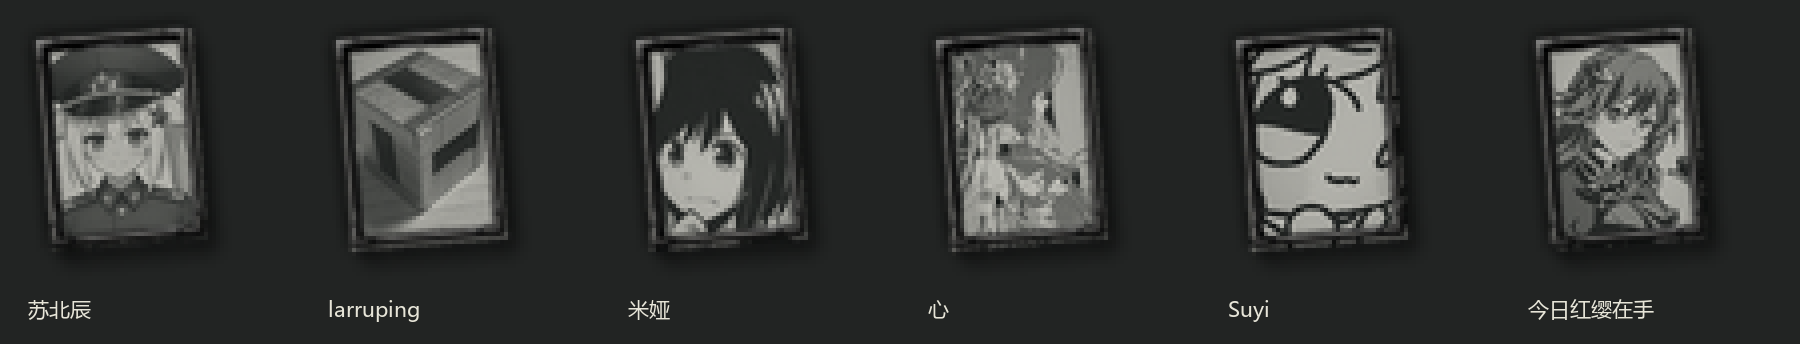
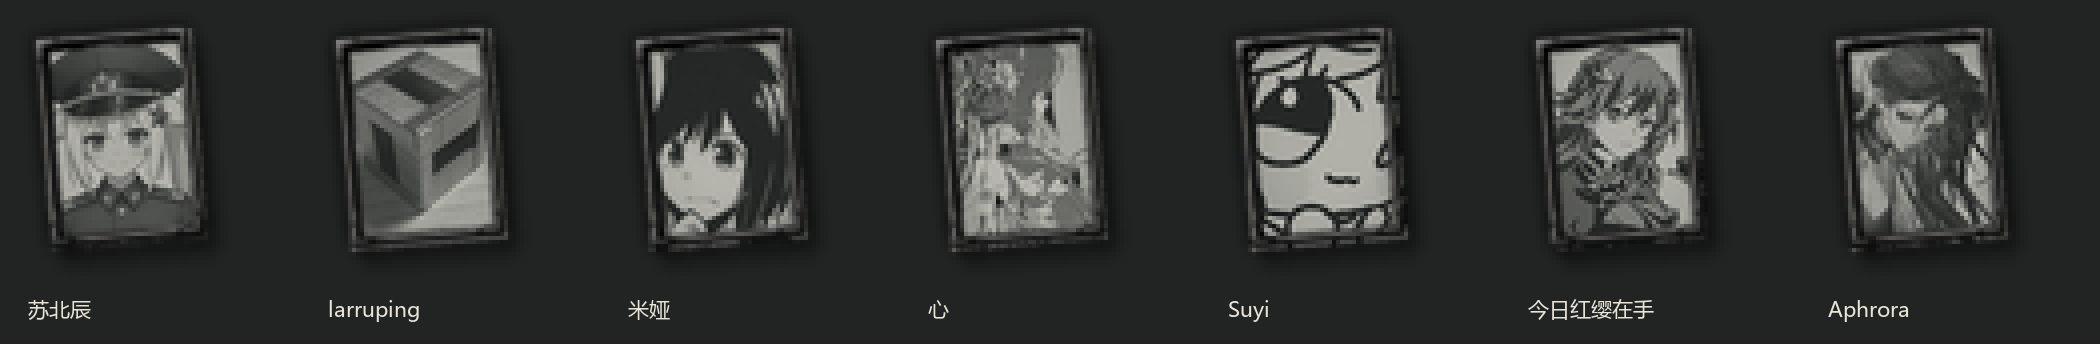
Add Aphrora as a Russian Easter egg advisor

diff --git a/tools/generate_easter_egg_advisors.py b/tools/generate_easter_egg_advisors.py
@@ -9,6 +9,12 @@ from generation_io import cli
 
 ROOT=Path(__file__).resolve().parents[1]
 ADVISORS={
+ 'aphrora':dict(
+     name='Aphrora', trait='金牌顾问', modifiers={},
+     trait_tooltip='群号1094481847，不会的进群问 Aphrora\n任命后吞并德意志帝国（若其仍存在）。',
+     desc=(
+         '“原来是这样啊，不知道的还以为在第一次世界大战时，德国皇帝威廉二世否决了最高统帅部的无限制潜艇战决议导致美国没有参与欧陆的战争，在法国巴黎爆发工团革命后协约国与同盟国签订停战协议，而被推翻的协约国各国政府分别流亡北非与加拿大，而法兰西公社与不列颠同盟成立了第三国际，同时由于社会革命党对列宁的刺杀与德国对俄国内战的干涉，导致乌克兰，白俄罗斯，波兰，波罗的海，立陶宛，芬兰，格鲁吉亚与阿塞拜疆独立并加入由德意志国领导的帝国公约，而在战后的20年，俄国白军头面人物萨文科夫制杖全俄大权，但在面临黑色星期一时的强行手段以及独裁专政引起了全俄的强烈不满，由玛利亚 斯皮里多诺娃领导的社革与布尔什维克以及其他社会主义民主党派组成的全俄劳联推翻了萨文科夫的统治恢复了俄罗斯社会主义共和国，而在随后的劳工大会中全俄劳联尤其是其中的左翼-布尔什维克集团赢得了选举，恢复了苏维埃制度，而已经加入全俄劳联的季诺维也夫打算用自己的全部影响力接管布尔什维克时，斯大林，斯维尔德洛夫，加米涅夫三人推翻了他的意图，俄共（布）在斯大林的领导下成立了苏维埃俄罗斯社会主义联邦共和国，并在第二次世界大战中战胜了帝国公约，成立了苏维埃社会主义共和国联盟呢。”'
+         '\n据他所说，这个名字是某种英文转写的阿芙乐尔，作为本模组一位忠实的玩家，他积极的为本模组的发展建言献策，却没有参与到制作之中，但这并不意味着他没有为本组做出贡献，至少上面这篇短文就很好地简短介绍了本模组的剧情走向。而在群中，他积极的帮助大家游玩这个模组，从dlc的补全到土改小游戏的帮助，都能提现他的热心，自己对kr世界观中共产主义事业的努力')),
  'hongying':dict(name='今日红缨在手',trait='远视极权自动化未来平权主义',
      modifiers={'consumer_goods_factor':-1,'political_power_factor':2,
                 'production_speed_buildings_factor':5},desc=(
@@ -54,6 +60,9 @@ def render_outputs():
     }
     for key,data in ADVISORS.items():
         ident=token(key);idea=ident+'_advisor';flag=ident+'_unlocked';trait=ident+'_trait'
+        trait_tooltip = data.get('trait_tooltip')
+        if trait_tooltip:
+            loc[trait+'_tt'] = trait_tooltip
         characters.append(block(ident,[
             'name = '+ident,
             'portraits = { civilian = { small = GFX_portrait_'+ident+'_small } }',
@@ -61,12 +70,24 @@ def render_outputs():
                 'slot = political_advisor','idea_token = '+idea,'desc = '+idea+'_desc',
                 'visible = { has_country_flag = '+flag+' }',
                 'available = { hidden_trigger = { has_country_flag = '+flag+' } not_already_hired_except_as = political_advisor }',
-                'traits = { '+trait+' }','cost = 0','can_be_fired = yes','ai_will_do = { base = 0 }']).strip()]))
+                'traits = { '+trait+' }',
+                *([
+                    'on_add = {',
+                    '\thidden_effect = {',
+                    '\t\tif = {',
+                    '\t\t\tlimit = { original_tag = RUS is_ai = no country_exists = GER }',
+                    '\t\t\tannex_country = { target = GER }',
+                    '\t\t}',
+                    '\t}',
+                    '}',
+                ] if key == 'aphrora' else []),
+                'cost = 0','can_be_fired = yes','ai_will_do = { base = 0 }']).strip()]))
         if key=='suyi':
             characters[-1]=characters[-1].replace('cost = 0',
                 'on_add = { hidden_effect = { RUS_egg_suyi_appoint = yes } }\n\ton_remove = { hidden_effect = { clr_country_flag = RUS_egg_suyi_active remove_dynamic_modifier = { modifier = RUS_egg_suyi_daily_pp } force_update_dynamic_modifier = yes } }\n\tcost = 0')
         traits.append(block(trait,['random = no','sprite = 1',
             *[str(k)+' = '+str(v) for k,v in data['modifiers'].items()],
+            *(['custom_modifier_tooltip = '+trait+'_tt'] if trait_tooltip else []),
             *(['custom_modifier_tooltip = RUS_egg_guaranteed_minesweeper_tt'] if key=='larruping' else []),
             *(['custom_modifier_tooltip = RUS_egg_guaranteed_doudizhu_tt'] if key=='larruping' else []),
             *(['custom_modifier_tooltip = RUS_egg_mia_trait_tt'] if key=='mia' else []),

diff --git a/tools/test_easter_egg_advisors.py b/tools/test_easter_egg_advisors.py
@@ -14,11 +14,18 @@ class Model(ScriptModel):
         super().__init__(copy.deepcopy(FX));self.ideas={'RUS_egg_larruping_advisor'} if hired else set()
         self.characters=set();self.recruits=0;self.events=[];self.states=[dict(energy_infrastructure=0,industrial_infrastructure=0,slots=0) for _ in range(eligible)]
         self.state=None;self.country=self.vars
+        self.tag = 'RUS'
+        self.ai = False
+        self.existing_countries = set()
+        self.annexations = []
     def check(self,nodes):
         if hasattr(nodes,'v'):nodes=nodes.v
         for n in nodes:
             if n.k=='has_idea':ok=n.v in self.ideas
             elif n.k=='has_character':ok=n.v in self.characters
+            elif n.k == 'original_tag':ok = n.v == self.tag
+            elif n.k == 'is_ai':ok = (n.v == 'yes') == self.ai
+            elif n.k == 'country_exists':ok = n.v in self.existing_countries
             elif n.k=='any_owned_state':ok=any(s['energy_infrastructure']<1 and s['industrial_infrastructure']<1 for s in self.states)
             elif n.k=='owner':
                 old=self.vars;self.vars=self.country;ok=self.check(n.v);self.vars=old
@@ -26,7 +33,7 @@ class Model(ScriptModel):
             if not ok:return False
         return True
     def run(self,nodes):
-        handled={'clamp_variable','recruit_character','country_event','while_loop_effect','random_owned_controlled_state',
+        handled={'clamp_variable','recruit_character','country_event','annex_country','while_loop_effect','random_owned_controlled_state',
                  'add_extra_state_shared_building_slots','add_building_construction',
                  'RUS_tesla_minesweeper_refresh_gui','RUS_tesla_refresh_power_grid_bonuses'}
         pending=[]
@@ -36,6 +43,10 @@ class Model(ScriptModel):
             if n.k=='clamp_variable':
                 key=n.value('var');self.vars[key]=max(self.number(n.value('min')),min(self.number(n.value('max')),self.number(key)))
             elif n.k=='recruit_character':self.characters.add(n.v);self.recruits+=1
+            elif n.k == 'annex_country':
+                target = n.value('target')
+                self.existing_countries.remove(target)
+                self.annexations.append(target)
             elif n.k=='country_event':self.events.append((n.value('id'),int(n.value('days'))))
             elif n.k=='while_loop_effect':
                 count=0
@@ -127,6 +138,23 @@ class Tests(unittest.TestCase):
             portrait=chars.one(token(key)).one('portraits').one('civilian').value('small')
             im=Image.open(ROOT/sprites[portrait]);self.assertEqual(im.size,(65,67));self.assertEqual(im.mode,'RGBA')
             self.assertEqual(im.getchannel('A').getextrema(),(0,255))
+
+    def test_aphrora_annexes_germany_on_appointment_only(self):
+        ident = token('aphrora')
+        characters = load(ROOT/'common/characters/RUS_easter_egg_advisors.txt')[0]
+        appointment = characters.one(ident).one('advisor').one('on_add')
+        for tag, ai, germany_exists in (('RUS', False, True), ('RUS', False, False),
+                                        ('RUS', True, True), ('FRA', False, True)):
+            with self.subTest(tag=tag, ai=ai, germany_exists=germany_exists):
+                model = Model()
+                model.tag, model.ai = tag, ai
+                model.existing_countries = {'GER'} if germany_exists else set()
+                model.call(ident+'_unlock')
+                self.assertEqual(model.annexations, [])
+                model.run(appointment.v)
+                model.run(appointment.v)
+                expected = ['GER'] if tag == 'RUS' and not ai and germany_exists else []
+                self.assertEqual(model.annexations, expected)
 
     def test_hired_loss_is_victory_once_with_original_streak_reward(self):
         for result in ('finish_victory','finish_defeat'):

diff --git a/tools/art_sources/easter_egg_advisors_20261104/build_portraits.py b/tools/art_sources/easter_egg_advisors_20261104/build_portraits.py
@@ -11,7 +11,8 @@ ROWS=[('su_beichen','su_beichen_source.jpg','35,0,410,455','苏北辰'),
       ('mia','mia_source.jpg','215,0,1040,1080','米娅'),
       ('xin','xin_source.png','170,25,500,490','心'),
       ('suyi','suyi_source.png','0,0,606,606','Suyi'),
-      ('hongying','hongying_source.png','0,0,602,601','今日红缨在手')]
+      ('hongying','hongying_source.png','0,0,602,601','今日红缨在手'),
+      ('aphrora','aphrora_source.png','132,20,540,564','Aphrora')]
 
 def main():
     if sys.argv[1:]!=['--write']:raise SystemExit('Explicit image rebuild requires --write')

diff --git a/维护索引.md b/维护索引.md
@@ -83,7 +83,7 @@
 | 系统 | 入口与维护源 | 主要状态与生命周期 |
 | --- | --- | --- |
 | 特斯拉与扫雷 | `RUS_tesla_*`；`generate_tesla_minesweeper.py` | 科技/国策入口与扫雷盘状态分别维护；扫雷使用决议分类窗口。larruping“赌徒”任命期间失败改成功，统一结算防重；另保证斗地主四张2和大小王，入口和维护期不改 |
-| 彩蛋栏与顾问：苏北辰/larruping/米娅/心/Suyi/今日红缨在手 | `tools/generate_easter_egg_advisors.py`、`tools/EASTER_EGG_ADVISORS.md`、`tools/test_easter_egg_advisors.py` | 玩家俄罗斯的“彩蛋”分类统一放六名顾问、列宁复活入口及简易模式；后二者仍由原生成源/手写决议维护，费用/效果不改。六名独立政治顾问免费任命，数值不另受简易顾问副本放大；65×67头像复用已有KR框，原图/参数/SHA在`tools/art_sources/easter_egg_advisors_20261104` |
+| 彩蛋栏与顾问：苏北辰/larruping/米娅/心/Suyi/今日红缨在手/Aphrora | `tools/generate_easter_egg_advisors.py`、`tools/EASTER_EGG_ADVISORS.md`、`tools/test_easter_egg_advisors.py` | 玩家俄罗斯的“彩蛋”分类统一放七名顾问、列宁复活入口及简易模式；后二者仍由原生成源/手写决议维护，费用/效果不改。七名独立政治顾问免费任命，Aphrora 任命时吞并仍存在的 GER，数值不另受简易顾问副本放大；65×67头像复用已有KR框，原图/参数/SHA在`tools/art_sources/easter_egg_advisors_20261104` |
 | Suyi每日随机政治点（20261106） | `generate_easter_egg_advisors.py`、`test_suyi_advisor.py`；说明`tools/EASTER_EGG_ADVISORS.md` | 彩蛋邀请后手动免费任命，概率学博士每日政治点获取均匀随机-30..30、两位小数，任命即时生效、同日重任不刷、卸任移除；active旗标避开on_add时序，隐藏动态修正与特质共读变量。原图按KR模板输出65×67 RGBA；实机提示修正为特质固定范围、彩蛋分类介绍ROOT作用域当日数值，分类保留可见；仅测试开发。 |
 | 米娅累计科研与月度土改（20261105） | `generate_easter_egg_advisors.py`、`generate_education_reform.py`、`test_easter_egg_advisors.py` | 任命后每月土改+100复用农业账本，53项教育正常完成各永久为教育改革精神追加科研+5个百分点；完成时须任命、卸任后已获收益保留，无额外上限；介绍和原图归档沿用彩蛋目录 |
 | 地方工业结构（20261106） | `tools/generate_local_industrial_structure.py`、`tools/test_local_industrial_structure.py`、`tools/LOCAL_INDUSTRIAL_STRUCTURE.md` | 开局/每日缓存/控制权变更；RUS全部直接控制州，含战后占领非核心；民工速度0.4C/(C+10)-0.6M/(M+20)，军工速度-0.5M/(M+20)，仅原生州建造速度，与农村修正并存 |

diff --git a/MOD制作日志.md b/MOD制作日志.md
@@ -2,6 +2,13 @@
 
 最后更新：2026-11-11
 
+## 2026-11-11 — 彩蛋顾问 Aphrora
+
+- 在俄罗斯的彩蛋决议分类加入「邀请Aphrora」。邀请与任命各花费 0 政治点。背景采用用户原文及指定换行，「金牌顾问」显示群号、求助说明和任命效果。
+- 玩家俄罗斯任命 Aphrora 时，若 GER 仍存在，原生 `annex_country` 吞并 GER。邀请只解锁人物，任命回调负责执行吞并。原生写法参照已安装 KR 的 `01_American Civil War effects.txt`。
+- 用户原图 596×603 按既有 KR 模板裁入相框。游戏头像为 65×67 RGBA PNG，原图、裁剪参数和哈希归档。目视检查了原生尺寸头像和放大预览。
+- 彩蛋顾问和 Suyi 的 15 项脚本回归通过，覆盖邀请、任命、GER 不存在和国家与 AI 限制。格式调整后再跑三项相关回归，12 个生成输出一致。503 个脚本及 331 个本地化文件的结构检查通过，新增人物、邀请、效果、特质、图元和本地化通过 RHoi 定向验证。修复试运行无红项。游戏内任命结果待实测。
+
 ## 2026-11-11 — 科列加耶夫方案事件分页
 
 - “新国家农业展望”的查看方案入口仍打开 `.4`，现为《关于科列加耶夫方案（上）》。保留原文前两节，点击“继续阅读。”立即打开新增 `.5` 下篇；下篇承接第三至第五节及原结语按钮，无玩法奖励或额外等待。
